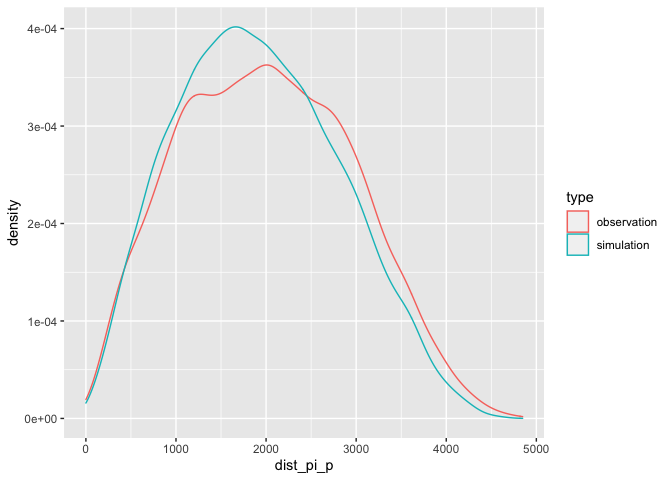
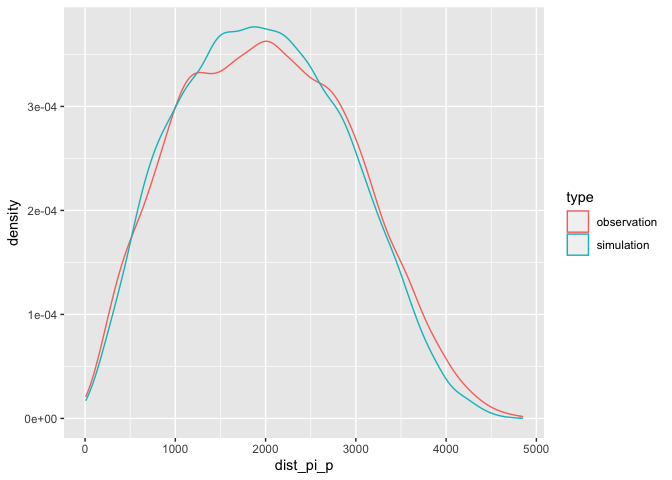
maj badge

diff --git a/README.md b/README.md
@@ -6,7 +6,7 @@ MIT](https://img.shields.io/badge/License-MIT-yellow.svg)](https://opensource.or
 ![R](https://img.shields.io/badge/R-%3E%3D%202.10-blue) ![R CMD
 check](https://img.shields.io/badge/R%20CMD%20check-passing-green)
 ![Dependencies](https://img.shields.io/badge/dependencies-magrittr-blue)
-![Coverage](https://img.shields.io/badge/coverage-35%25-red)
+![Coverage](https://img.shields.io/badge/coverage-45%25-red)
 
 ## Space-time point pattern analysis on planar network
 
@@ -14,7 +14,7 @@ spacetimeLPP is a R package facilitating the analysis of point patterns
 on planar networks over time, as usually considered in history or
 archaeology, either by qualitative periods (e.g. 1820-1835 or the
 Augustan period) or by time steps (e.g. 1820 and 1835). In input,
-spatial data are considered in `sf` format and outputs are in `tidy` of
+spatial data are considered in `sf` format and outputs are in `tidy` or
 `sf` formats to simplify the use of the package. However, main
 calculations, as distance matrices between points on network, are
 performed using `spatstat` package for its computational speed.
@@ -35,8 +35,9 @@ the functions are based:
 
 ## Installing
 
-Package currently only exist as development on github. Install package
-from github:
+Package currently exist as development on github.
+
+Install package from github:
 
 ``` r
 library(remotes)
@@ -69,16 +70,16 @@ distances
     ## # A tibble: 28,359 × 5
     ##       Pi P     dist_pi_p   sim type      
     ##    <int> <chr>     <dbl> <int> <chr>     
-    ##  1     2 1        1244.      1 simulation
-    ##  2     3 1        2160.      1 simulation
-    ##  3     3 2        1964.      1 simulation
-    ##  4     4 1        1057.      1 simulation
-    ##  5     4 2         187.      1 simulation
-    ##  6     4 3        1905.      1 simulation
-    ##  7     5 1          64.8     1 simulation
-    ##  8     5 2        1308.      1 simulation
-    ##  9     5 3        2123.      1 simulation
-    ## 10     5 4        1121.      1 simulation
+    ##  1     2 1         1016.     1 simulation
+    ##  2     3 1         2006.     1 simulation
+    ##  3     3 2         2313.     1 simulation
+    ##  4     4 1         2717.     1 simulation
+    ##  5     4 2         2836.     1 simulation
+    ##  6     4 3         1042.     1 simulation
+    ##  7     5 1         1987.     1 simulation
+    ##  8     5 2         2212.     1 simulation
+    ##  9     5 3          837.     1 simulation
+    ## 10     5 4          738.     1 simulation
     ## # … with 28,349 more rows
 
 Visualisation of distances
